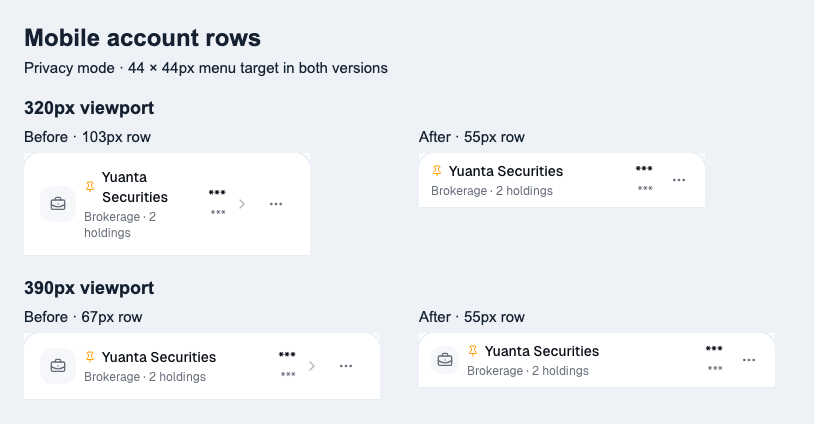
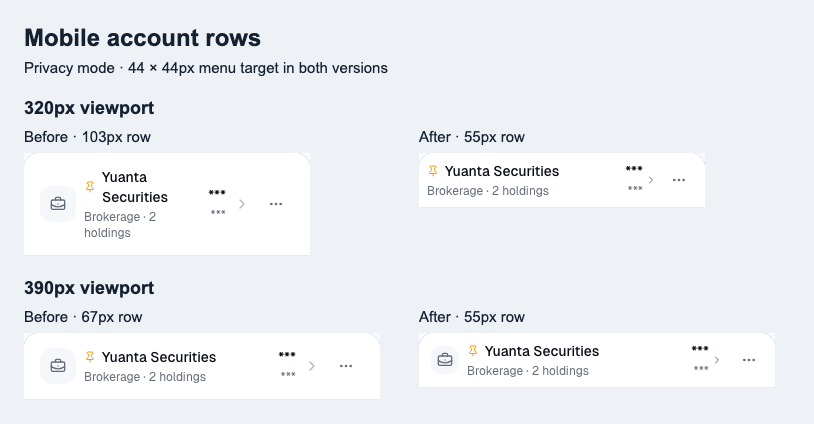
fix(ui): retain the mobile account detail chevron

diff --git a/src/components/accounts/accounts-list.tsx b/src/components/accounts/accounts-list.tsx
@@ -31,6 +31,7 @@ import {
   Building2,
   Car,
   ChevronDown,
+  ChevronRight,
   CreditCard,
   FileText,
   Folder,
@@ -1226,7 +1227,7 @@ function MobileAccountRow({
         transitionTypes={["nav-forward"]}
       >
         <div
-          className={`flex min-h-11 min-w-0 flex-1 items-center gap-2 pr-1 pl-3 ${isCompact ? "py-1.5" : "py-2"}`}
+          className={`flex min-h-11 min-w-0 flex-1 items-center gap-2 pr-1 pl-3 max-[360px]:gap-1 max-[360px]:pr-0 max-[360px]:pl-2 ${isCompact ? "py-1.5" : "py-2"}`}
         >
           <div className="flex size-7 shrink-0 items-center justify-center rounded-md bg-muted/60 max-[360px]:hidden">
             <CategoryIcon className="h-4 w-4 text-muted-foreground" />
@@ -1247,15 +1248,18 @@ function MobileAccountRow({
               )}
             </p>
           </div>
-          <div className="text-right shrink-0">
-            <p className="text-sm font-semibold tabular-nums">
-              {privacyMode ? HIDDEN : formatCurrency(convertedValue, baseCurrency)}
-            </p>
-            {displayCurrency !== baseCurrency && (
-              <p className="text-xs text-muted-foreground tabular-nums mt-0.5">
-                {privacyMode ? HIDDEN : formatCurrency(displayValue, displayCurrency)}
+          <div className="flex shrink-0 items-center gap-0.5">
+            <div className="text-right">
+              <p className="text-sm font-semibold tabular-nums">
+                {privacyMode ? HIDDEN : formatCurrency(convertedValue, baseCurrency)}
               </p>
-            )}
+              {displayCurrency !== baseCurrency && (
+                <p className="mt-0.5 text-xs text-muted-foreground tabular-nums">
+                  {privacyMode ? HIDDEN : formatCurrency(displayValue, displayCurrency)}
+                </p>
+              )}
+            </div>
+            <ChevronRight className="size-3 shrink-0 text-muted-foreground" aria-hidden="true" />
           </div>
         </div>
       </Link>
